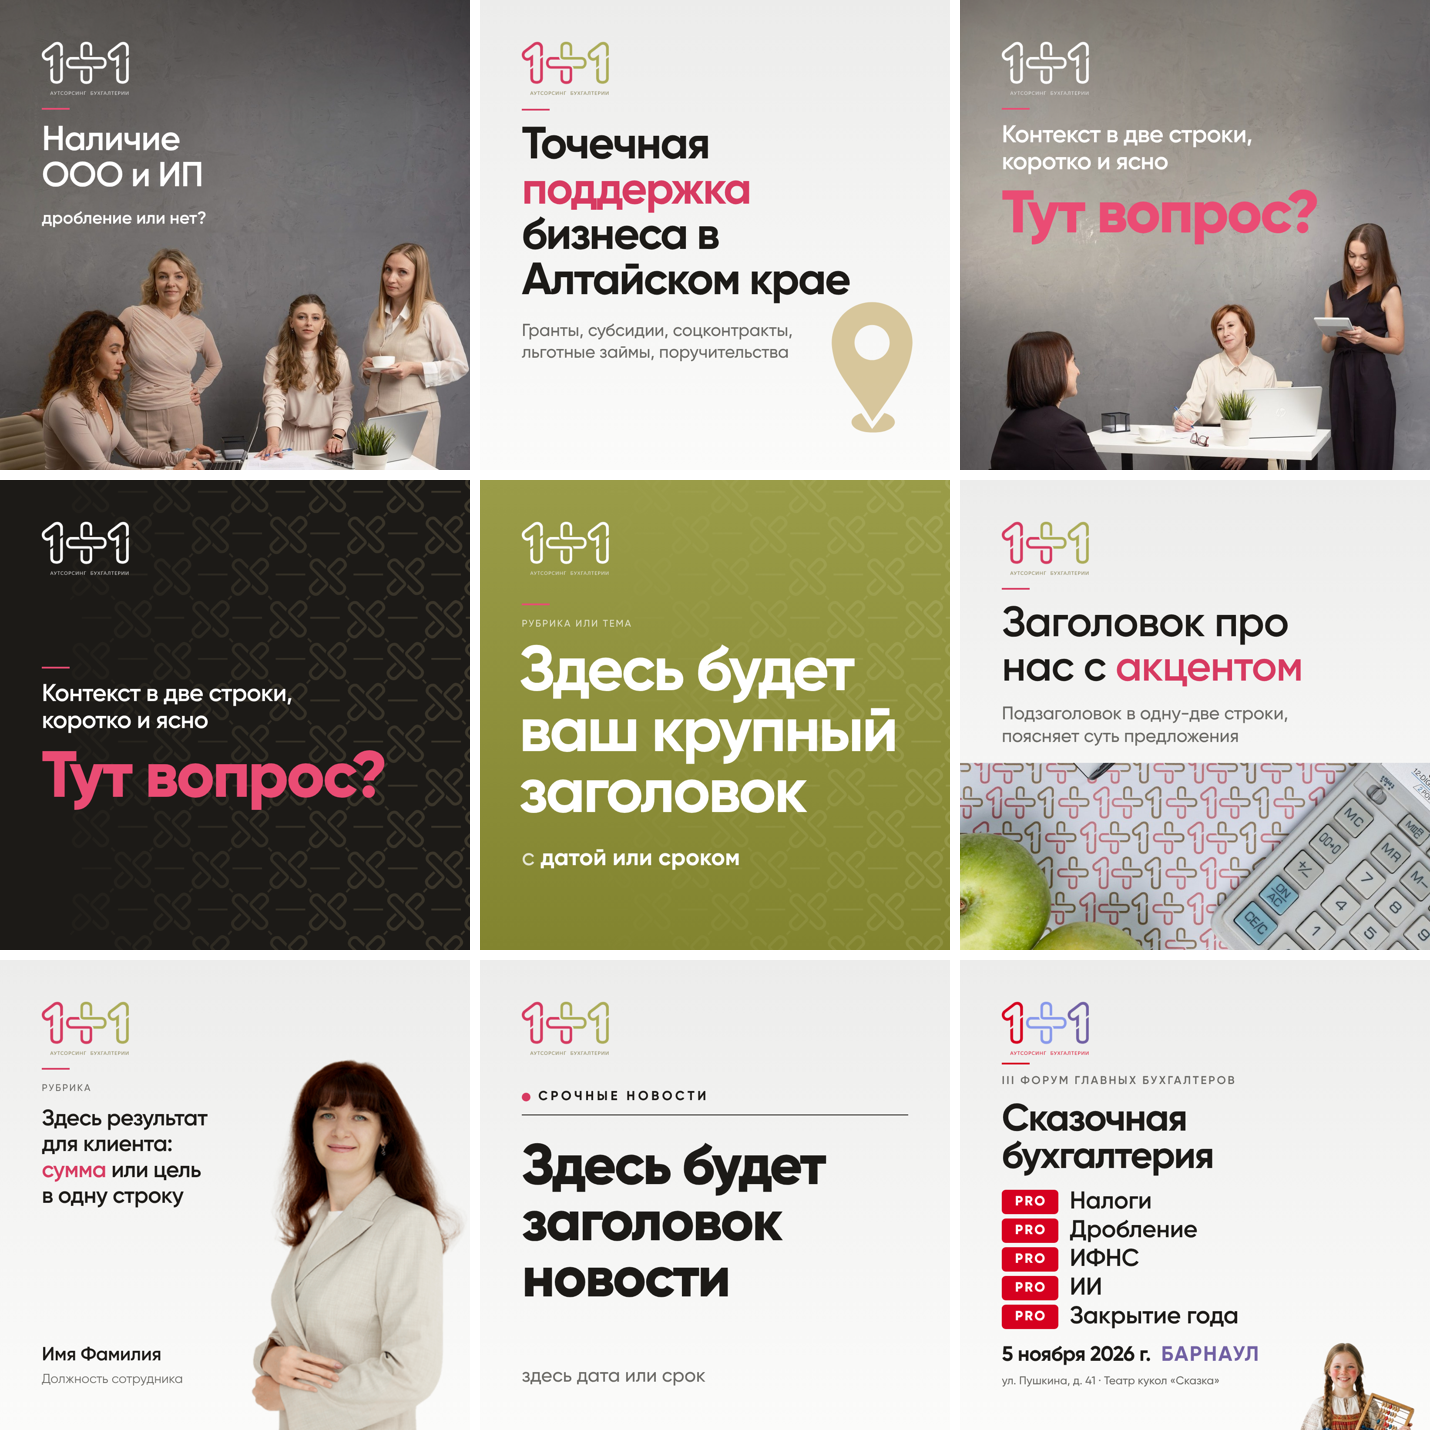
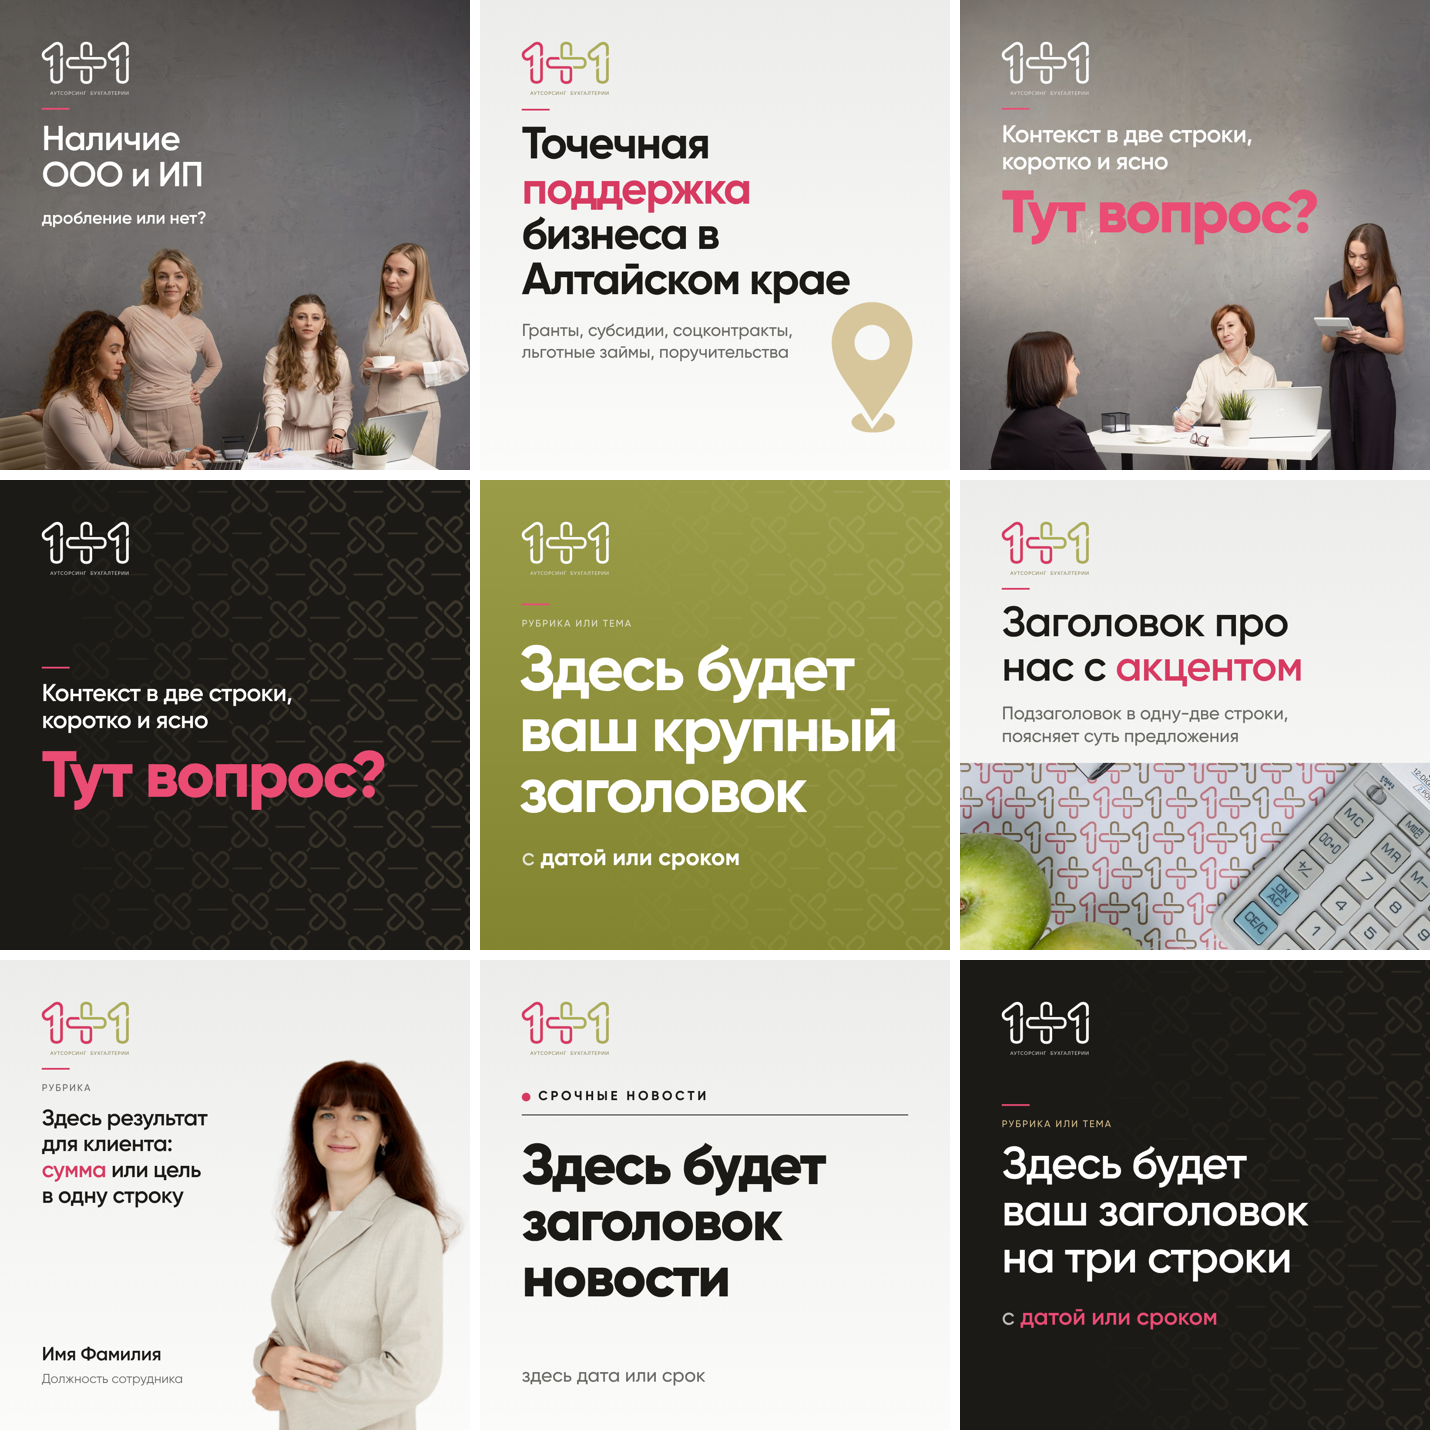
Форум «Сказочная бухгалтерия» убран из листа серии и проверки повторов
Claude-Session: https://claude.ai/code/session_01VZ7Hrkur6jxoGp5f6QSiLJ

Changed region(s): [[0.6562, 0.6562, 1.0, 1.0]]

diff --git a/tools/registry.py b/tools/registry.py
@@ -17,7 +17,7 @@ def report(e=None):
     for x in e: L.append('| %s | %s | %s | %s | %s | %s | %s | %s | %s | %s |'%(x['id'],x['date'],x['topic'],x['template'],x['register'],x['photo'] or '—',x['accent'] or '—',x['watermark'] or '—',x['status'],x['note'] or ''))
     open(os.path.join(P,'LOG.md'),'w',encoding='utf8').write('\n'.join(L)+'\n')
 def suggest(n):
-    e=[x for x in load() if x['status']!='снят'][-n:]
+    e=[x for x in load() if x['status']!='снят' and not x['template'].startswith('E')][-n:]  # события (E*) — отдельная айдентика, в проверку серии не входят
     ph=collections.Counter(x['photo'] for x in e if x['photo']); rg=collections.Counter(x['register'] for x in e); tp=collections.Counter(x['template'] for x in e)
     print('Последние %d макетов.'%len(e))
     print('Фото (не повторять, если можно): ',', '.join('%s×%d'%kv for kv in ph.most_common()) or '—')

diff --git a/docs/events.md b/docs/events.md
@@ -46,3 +46,5 @@
 
 Макеты собираются потоком, а не по абсолютным координатам: колонка текста (чёрточка и подпись, заголовок, темы, дата и город, адрес) растягивается между верхним и нижним полем, и свободное место делится между блоками поровну. Так нет наезда блоков друг на друга при смене текста. Генератор: `tools/forum-layouts.py`. Сториз: колонка от 424 до 1500 px (в I до 1580), сверху и снизу зоны интерфейса.
 Дата и город в одну строку, адрес в одну строку и без города. Девочка не заходит на строки текста: в F и E она в нижнем углу (E крупнее), в B стоит в рост справа от тем, в I выглядывает из-за панели.
+
+Макеты форума (айдентика события) живут отдельно от серии 1+1: в листы сравнения эталонов, каталоги и проверку повторов (`registry.py suggest`) они не входят.
